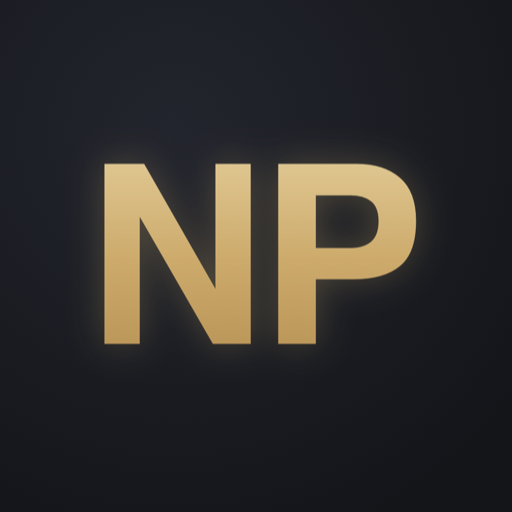
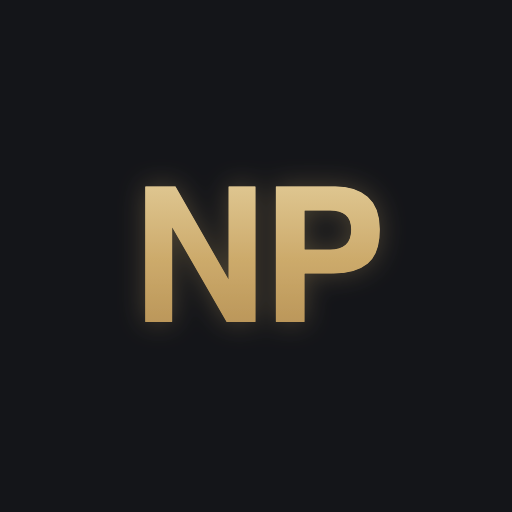
fix(pwa): iconos maskable con zona segura para Android + mobile-web-app-capable
- Nuevos maskable-192/512.png (logo NP escalado al 75%, fondo a sangre)
  para que los iconos adaptativos de Android no recorten el logo.
- Manifest: separa purpose 'any' (iOS/splash) de 'maskable' (Android).
- index.html: anade meta mobile-web-app-capable (estandar Chrome/Android).

Claude-Session: https://claude.ai/code/session_01D5RmtSB5qNsHFfBmQajh4U

Changed region(s): [[0.1562, 0.2812, 0.5, 0.6875], [0.5312, 0.2812, 0.8438, 0.6875]]

diff --git a/vite.config.ts b/vite.config.ts
@@ -42,9 +42,12 @@ export default defineConfig({
         id: BASE,
         lang: 'es',
         icons: [
-          { src: 'pwa-192.png', sizes: '192x192', type: 'image/png' },
-          { src: 'pwa-512.png', sizes: '512x512', type: 'image/png' },
-          { src: 'pwa-512.png', sizes: '512x512', type: 'image/png', purpose: 'maskable' },
+          // A sangre completa (iOS, splash, launchers no adaptativos)
+          { src: 'pwa-192.png', sizes: '192x192', type: 'image/png', purpose: 'any' },
+          { src: 'pwa-512.png', sizes: '512x512', type: 'image/png', purpose: 'any' },
+          // Con zona segura (iconos adaptativos de Android: círculo/squircle/gota)
+          { src: 'maskable-192.png', sizes: '192x192', type: 'image/png', purpose: 'maskable' },
+          { src: 'maskable-512.png', sizes: '512x512', type: 'image/png', purpose: 'maskable' },
         ],
       },
       devOptions: { enabled: false },

diff --git a/index.html b/index.html
@@ -5,6 +5,7 @@
     <link rel="icon" type="image/svg+xml" href="/favicon.svg" />
     <meta name="viewport" content="width=device-width, initial-scale=1.0, viewport-fit=cover, maximum-scale=1.0, user-scalable=no" />
     <meta name="theme-color" content="#15161a" />
+    <meta name="mobile-web-app-capable" content="yes" />
     <meta name="apple-mobile-web-app-capable" content="yes" />
     <meta name="apple-mobile-web-app-status-bar-style" content="black-translucent" />
     <meta name="apple-mobile-web-app-title" content="NutriPiki" />